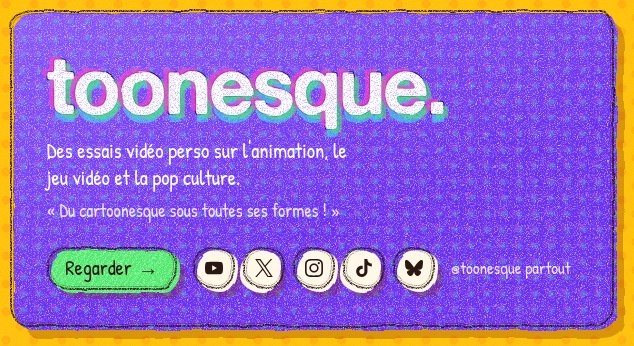
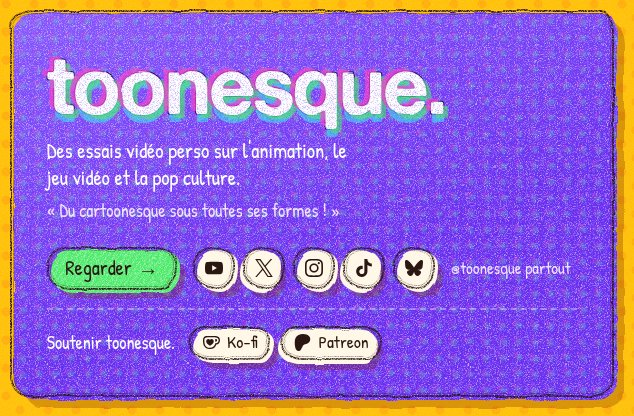
toonesque. : Ko-fi et Patreon ; Regarder et YouTube vers la chaîne
- « Regarder » ouvre directement youtube.com/@toonesque
- L'icône YouTube de toonesque. propose de s'abonner (?sub_confirmation=1)
- Ligne « Soutenir toonesque. » avec Ko-fi et Patreon (icônes Simple Icons)
- Captures de PR mises à jour

Claude-Session: https://claude.ai/code/session_01LKzVBaJrLPfnWSfihrEFNx

diff --git a/index.html b/index.html
@@ -75,6 +75,8 @@
     <symbol id="i-lastfm" viewBox="0 0 24 24"><path d="M10.584 17.21l-.88-2.392s-1.43 1.594-3.573 1.594c-1.897 0-3.244-1.649-3.244-4.288 0-3.382 1.704-4.591 3.381-4.591 2.42 0 3.189 1.567 3.849 3.574l.88 2.749c.88 2.666 2.529 4.81 7.285 4.81 3.409 0 5.718-1.044 5.718-3.793 0-2.227-1.265-3.381-3.63-3.931l-1.758-.385c-1.21-.275-1.567-.77-1.567-1.595 0-.934.742-1.484 1.952-1.484 1.32 0 2.034.495 2.144 1.677l2.749-.33c-.22-2.474-1.924-3.492-4.729-3.492-2.474 0-4.893.935-4.893 3.932 0 1.87.907 3.051 3.189 3.601l1.87.44c1.402.33 1.869.907 1.869 1.704 0 1.017-.99 1.43-2.86 1.43-2.776 0-3.930-1.457-4.590-3.464l-.907-2.750c-1.155-3.573-2.997-4.893-6.653-4.893C2.144 5.333 0 7.890 0 12.233c0 4.180 2.144 6.434 5.993 6.434 3.106 0 4.591-1.457 4.591-1.457z"/></symbol>
     <symbol id="i-letterboxd" viewBox="0 0 24 24"><path d="M8.224 14.352a4.447 4.447 0 0 1-3.775 2.092C1.992 16.444 0 14.454 0 12s1.992-4.444 4.45-4.444c1.592 0 2.988.836 3.774 2.092-.427.682-.673 1.488-.673 2.352s.246 1.67.673 2.352zM15.101 12c0-.864.247-1.67.674-2.352-.786-1.256-2.183-2.092-3.775-2.092s-2.989.836-3.775 2.092c.427.682.674 1.488.674 2.352s-.247 1.67-.674 2.352c.786 1.256 2.183 2.092 3.775 2.092s2.989-.836 3.775-2.092A4.42 4.42 0 0 1 15.1 12zm4.45-4.444a4.447 4.447 0 0 0-3.775 2.092c.427.682.673 1.488.673 2.352s-.246 1.67-.673 2.352a4.447 4.447 0 0 0 3.775 2.092C22.008 16.444 24 14.454 24 12s-1.992-4.444-4.45-4.444z"/></symbol>
     <symbol id="i-backloggd" viewBox="0 0 24 24"><path fill-rule="evenodd" d="M7 5.5h10a5 5 0 0 1 4.93 4.15l.95 5.4a2.7 2.7 0 0 1-4.7 2.25L16 15H8l-2.18 2.3a2.7 2.7 0 0 1-4.7-2.25l.95-5.4A5 5 0 0 1 7 5.5zM6.4 8.2v1.6H4.8v1.6h1.6V13H8v-1.6h1.6V9.8H8V8.2zm9.85.3a1.1 1.1 0 1 0 0 2.2 1.1 1.1 0 0 0 0-2.2zm2.2 2.2a1.1 1.1 0 1 0 0 2.2 1.1 1.1 0 0 0 0-2.2z"/></symbol>
+    <symbol id="i-kofi" viewBox="0 0 24 24"><path d="M11.351 2.715c-2.7 0-4.986.025-6.83.26C2.078 3.285 0 5.154 0 8.61c0 3.506.182 6.13 1.585 8.493 1.584 2.701 4.233 4.182 7.662 4.182h.83c4.209 0 6.494-2.234 7.637-4a9.5 9.5 0 0 0 1.091-2.338C21.792 14.688 24 12.22 24 9.208v-.415c0-3.247-2.13-5.507-5.792-5.87-1.558-.156-2.65-.208-6.857-.208m0 1.947c4.208 0 5.09.052 6.571.182 2.624.311 4.13 1.584 4.13 4v.39c0 2.156-1.792 3.844-3.87 3.844h-.935l-.156.649c-.208 1.013-.597 1.818-1.039 2.546-.909 1.428-2.545 3.064-5.922 3.064h-.805c-2.571 0-4.831-.883-6.078-3.195-1.09-2-1.298-4.155-1.298-7.506 0-2.181.857-3.402 3.012-3.714 1.533-.233 3.559-.26 6.39-.26m6.547 2.287c-.416 0-.65.234-.65.546v2.935c0 .311.234.545.65.545 1.324 0 2.051-.754 2.051-2s-.727-2.026-2.052-2.026m-10.39.182c-1.818 0-3.013 1.48-3.013 3.142 0 1.533.858 2.857 1.949 3.897.727.701 1.87 1.429 2.649 1.896a1.47 1.47 0 0 0 1.507 0c.78-.467 1.922-1.195 2.623-1.896 1.117-1.039 1.974-2.364 1.974-3.897 0-1.662-1.247-3.142-3.039-3.142-1.065 0-1.792.545-2.338 1.298-.493-.753-1.246-1.298-2.312-1.298"/></symbol>
+    <symbol id="i-patreon" viewBox="0 0 24 24"><path d="M22.957 7.21c-.004-3.064-2.391-5.576-5.191-6.482-3.478-1.125-8.064-.962-11.384.604C2.357 3.231 1.093 7.391 1.046 11.54c-.039 3.411.302 12.396 5.369 12.46 3.765.047 4.326-4.804 6.068-7.141 1.24-1.662 2.836-2.132 4.801-2.618 3.376-.836 5.678-3.501 5.673-7.031Z"/></symbol>
     <symbol id="i-anilist" viewBox="0 0 24 24"><path d="M24 17.53v2.421c0 .71-.391 1.101-1.1 1.101h-5l-.057-.165L11.84 3.736c.106-.502.46-.788 1.053-.788h2.422c.71 0 1.1.391 1.1 1.1v12.38H22.9c.71 0 1.1.392 1.1 1.101zM11.034 2.947l6.337 18.104h-4.918l-1.052-3.131H6.019l-1.077 3.131H0L6.361 2.948h4.673zm-.66 10.96-1.69-5.014-1.541 5.015h3.23z"/></symbol>
     <symbol id="i-applemusic" viewBox="0 0 24 24"><path d="M23.994 6.124a9.23 9.23 0 00-.24-2.19c-.317-1.31-1.062-2.31-2.18-3.043a5.022 5.022 0 00-1.877-.726 10.496 10.496 0 00-1.564-.15c-.04-.003-.083-.01-.124-.013H5.986c-.152.01-.303.017-.455.026-.747.043-1.49.123-2.193.4-1.336.53-2.3 1.452-2.865 2.78-.192.448-.292.925-.363 1.408-.056.392-.088.785-.1 1.18 0 .032-.007.062-.01.093v12.223c.01.14.017.283.027.424.05.815.154 1.624.497 2.373.65 1.42 1.738 2.353 3.234 2.801.42.127.856.187 1.293.228.555.053 1.11.06 1.667.06h11.03a12.5 12.5 0 001.57-.1c.822-.106 1.596-.35 2.295-.81a5.046 5.046 0 001.88-2.207c.186-.42.293-.87.37-1.324.113-.675.138-1.358.137-2.04-.002-3.8 0-7.595-.003-11.393zm-6.423 3.99v5.712c0 .417-.058.827-.244 1.206-.29.59-.76.962-1.388 1.14-.35.1-.706.157-1.07.173-.95.045-1.773-.6-1.943-1.536a1.88 1.88 0 011.038-2.022c.323-.16.67-.25 1.018-.324.378-.082.758-.153 1.134-.24.274-.063.457-.23.51-.516a.904.904 0 00.02-.193c0-1.815 0-3.63-.002-5.443a.725.725 0 00-.026-.185c-.04-.15-.15-.243-.304-.234-.16.01-.318.035-.475.066-.76.15-1.52.303-2.280.456l-2.325.47-1.374.278c-.016.003-.032.01-.048.013-.277.077-.377.203-.39.49-.002.042 0 .086 0 .13-.002 2.602 0 5.204-.003 7.805 0 .42-.047.836-.215 1.227-.278.64-.77 1.04-1.434 1.233-.35.1-.71.16-1.075.172-.96.036-1.755-.6-1.92-1.544-.14-.812.23-1.685 1.154-2.075.357-.15.73-.232 1.108-.31.287-.06.575-.116.86-.177.383-.083.583-.323.6-.714v-.15c0-2.96 0-5.922.002-8.882 0-.123.013-.25.042-.37.07-.285.273-.448.546-.518.255-.066.515-.112.774-.165.733-.15 1.466-.296 2.2-.444l2.27-.46c.67-.134 1.34-.27 2.01-.403.22-.043.442-.088.663-.106.31-.025.523.17.554.482.008.073.012.148.012.223.002 1.910.002 3.822 0 5.732z"/></symbol>
   </svg>
@@ -153,15 +155,22 @@
             <p class="feature-quote">« Du cartoonesque sous toutes ses formes&nbsp;! »</p>
           </div>
           <div class="feature-actions">
-            <a class="feature-cta sketch" href="https://toonesque.com" target="_blank" rel="noopener">Regarder <span class="arrow" aria-hidden="true">→</span></a>
+            <a class="feature-cta sketch" href="https://www.youtube.com/@toonesque" target="_blank" rel="noopener">Regarder <span class="arrow" aria-hidden="true">→</span></a>
             <ul class="socials" aria-label="toonesque. sur les réseaux">
-              <li><a class="sketch" href="https://youtube.com/@toonesque" target="_blank" rel="noopener" aria-label="toonesque. sur YouTube" title="YouTube"><svg aria-hidden="true"><use href="#i-youtube"/></svg></a></li>
+              <li><a class="sketch" href="https://www.youtube.com/@toonesque?sub_confirmation=1" target="_blank" rel="noopener" aria-label="S'abonner à toonesque. sur YouTube" title="S'abonner sur YouTube"><svg aria-hidden="true"><use href="#i-youtube"/></svg></a></li>
               <li><a class="sketch" href="https://x.com/toonesque" target="_blank" rel="noopener" aria-label="toonesque. sur Twitter / X" title="Twitter / X"><svg aria-hidden="true"><use href="#i-x"/></svg></a></li>
               <li><a class="sketch" href="https://instagram.com/toonesque" target="_blank" rel="noopener" aria-label="toonesque. sur Instagram" title="Instagram"><svg aria-hidden="true"><use href="#i-instagram"/></svg></a></li>
               <li><a class="sketch" href="https://tiktok.com/@toonesque" target="_blank" rel="noopener" aria-label="toonesque. sur TikTok" title="TikTok"><svg aria-hidden="true"><use href="#i-tiktok"/></svg></a></li>
               <li><a class="sketch" href="https://bsky.app/profile/toonesque.com" target="_blank" rel="noopener" aria-label="toonesque. sur Bluesky" title="Bluesky"><svg aria-hidden="true"><use href="#i-bluesky"/></svg></a></li>
             </ul>
             <span class="feature-handle">@toonesque partout</span>
+          </div>
+          <div class="support">
+            <span class="support-label">Soutenir toonesque.</span>
+            <ul class="support-links">
+              <li><a class="sketch kofi" href="https://ko-fi.com/toonesque" target="_blank" rel="noopener"><svg aria-hidden="true"><use href="#i-kofi"/></svg>Ko-fi</a></li>
+              <li><a class="sketch patreon" href="https://patreon.com/toonesque" target="_blank" rel="noopener"><svg aria-hidden="true"><use href="#i-patreon"/></svg>Patreon</a></li>
+            </ul>
           </div>
         </div>
       </section>

diff --git a/assets/style.css b/assets/style.css
@@ -401,6 +401,32 @@ a.sketch:active { transform: scale(0.97); }
 .socials svg { width: 18px; height: 18px; fill: currentColor; }
 .feature-handle { font-size: 1.05rem; color: rgba(255, 255, 255, 0.85); }
 
+/* Soutenir toonesque. : Ko-fi et Patreon, sous les réseaux */
+.support {
+  display: flex;
+  flex-wrap: wrap;
+  align-items: center;
+  gap: 0.6rem 0.9rem;
+  margin-top: -0.4rem;
+  padding-top: 1rem;
+  border-top: 2px dashed rgba(255, 255, 255, 0.35);
+}
+.support-label { font-size: 1.12rem; color: #fff; }
+.support-links { display: flex; flex-wrap: wrap; gap: 0.6rem; list-style: none; }
+.support-links a {
+  --fill: var(--cream);
+  display: inline-flex;
+  align-items: center;
+  gap: 0.45rem;
+  padding: 0.3rem 0.85rem;
+  font-size: 1.1rem;
+  color: var(--ink);
+  text-decoration: none;
+}
+.support-links svg { width: 17px; height: 17px; fill: currentColor; }
+.kofi    { --c: #72a4f2; }
+.patreon { --c: #ff7a6b; }
+
 /* ---------- cabinet26 ---------- */
 
 .pro {
